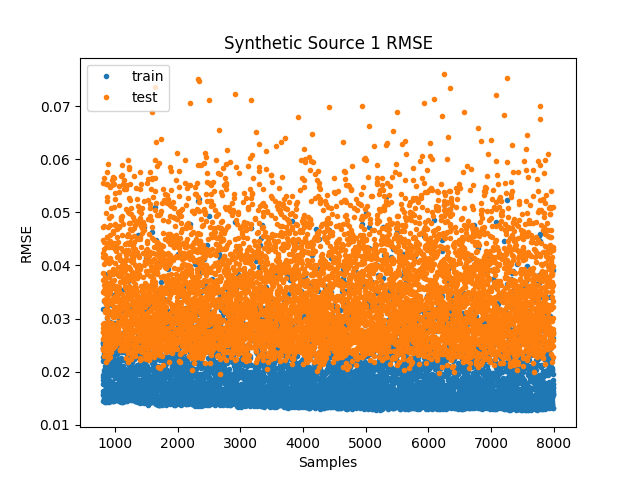
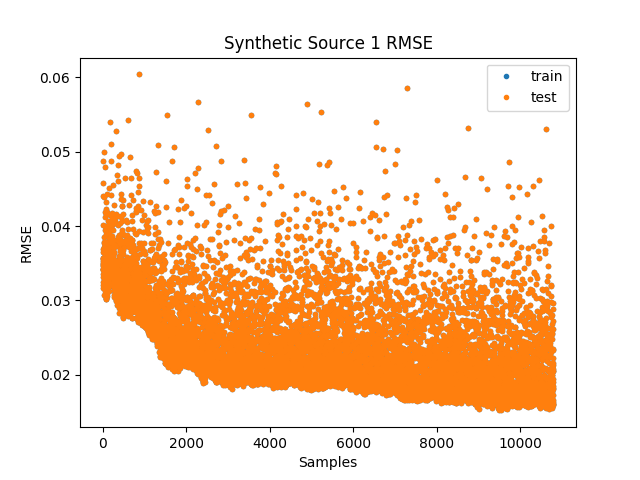
plots added

diff --git a/mcmc-transfer-learning/bntl_v2_0.py b/mcmc-transfer-learning/bntl_v2_0.py
@@ -573,9 +573,8 @@ class BayesianTL(object):
 
         for index in range(self.num_sources):
             ax = plt.subplot(111)
-            x = np.array(np.arange(burnin, self.num_samples))
-            plt.plot(x, self.source_rmse_train[burnin: , index], '.' , label="train")
-            plt.plot(x, self.source_rmse_test[burnin: , index], '.' , label="test")
+            plt.plot(self.source_rmse_train[burnin: , index], '.' , label="train")
+            plt.plot(self.source_rmse_test[burnin: , index], '.' , label="test")
             plt.legend()
             plt.xlabel('Samples')
             plt.ylabel('RMSE')
@@ -584,9 +583,8 @@ class BayesianTL(object):
             plt.clf()
 
         ax = plt.subplot(111)
-        x = np.array(np.arange(burnin, self.samples))
-        plt.plot(x, self.target_rmse_train[burnin: ], '.' , label="no-transfer")
-        plt.plot(x, self.joint_rmse_train[burnin: ], '.' , label="transfer")
+        plt.plot(self.target_rmse_train[burnin: ], '.' , label="w-target")
+        plt.plot(self.joint_rmse_train[burnin: ], '.' , label="mu")
         plt.legend()
         plt.xlabel('Samples')
         plt.ylabel('RMSE')
@@ -596,8 +594,8 @@ class BayesianTL(object):
 
 
         ax = plt.subplot(111)
-        plt.plot(x, self.target_rmse_test[burnin: ], '.' , label="no-transfer")
-        plt.plot(x, self.joint_rmse_test[burnin: ], '.' , label="transfer")
+        plt.plot(self.target_rmse_test[burnin: ], '.' , label="w-target")
+        plt.plot(self.joint_rmse_test[burnin: ], '.' , label="mu")
         plt.legend()
         plt.xlabel('Samples')
         plt.ylabel('RMSE')
@@ -660,13 +658,13 @@ if __name__ == '__main__':
         w_random = np.random.randn(bayesTL.wsize)
 
         # Start sampleEr
-        bayesTL.mcmc_sampler(stdscr, w_random, save_knowledge=True)
+        # bayesTL.mcmc_sampler(stdscr, w_random, save_knowledge=True)
 
         # display train and test accuracies
         bayesTL.display_rmse()
 
         # Plot the accuracies and rmse
-        # bayesTL.plot_rmse(problem_name)
+        bayesTL.plot_rmse(problem_name)
 
     finally:
         # curses.echo()
